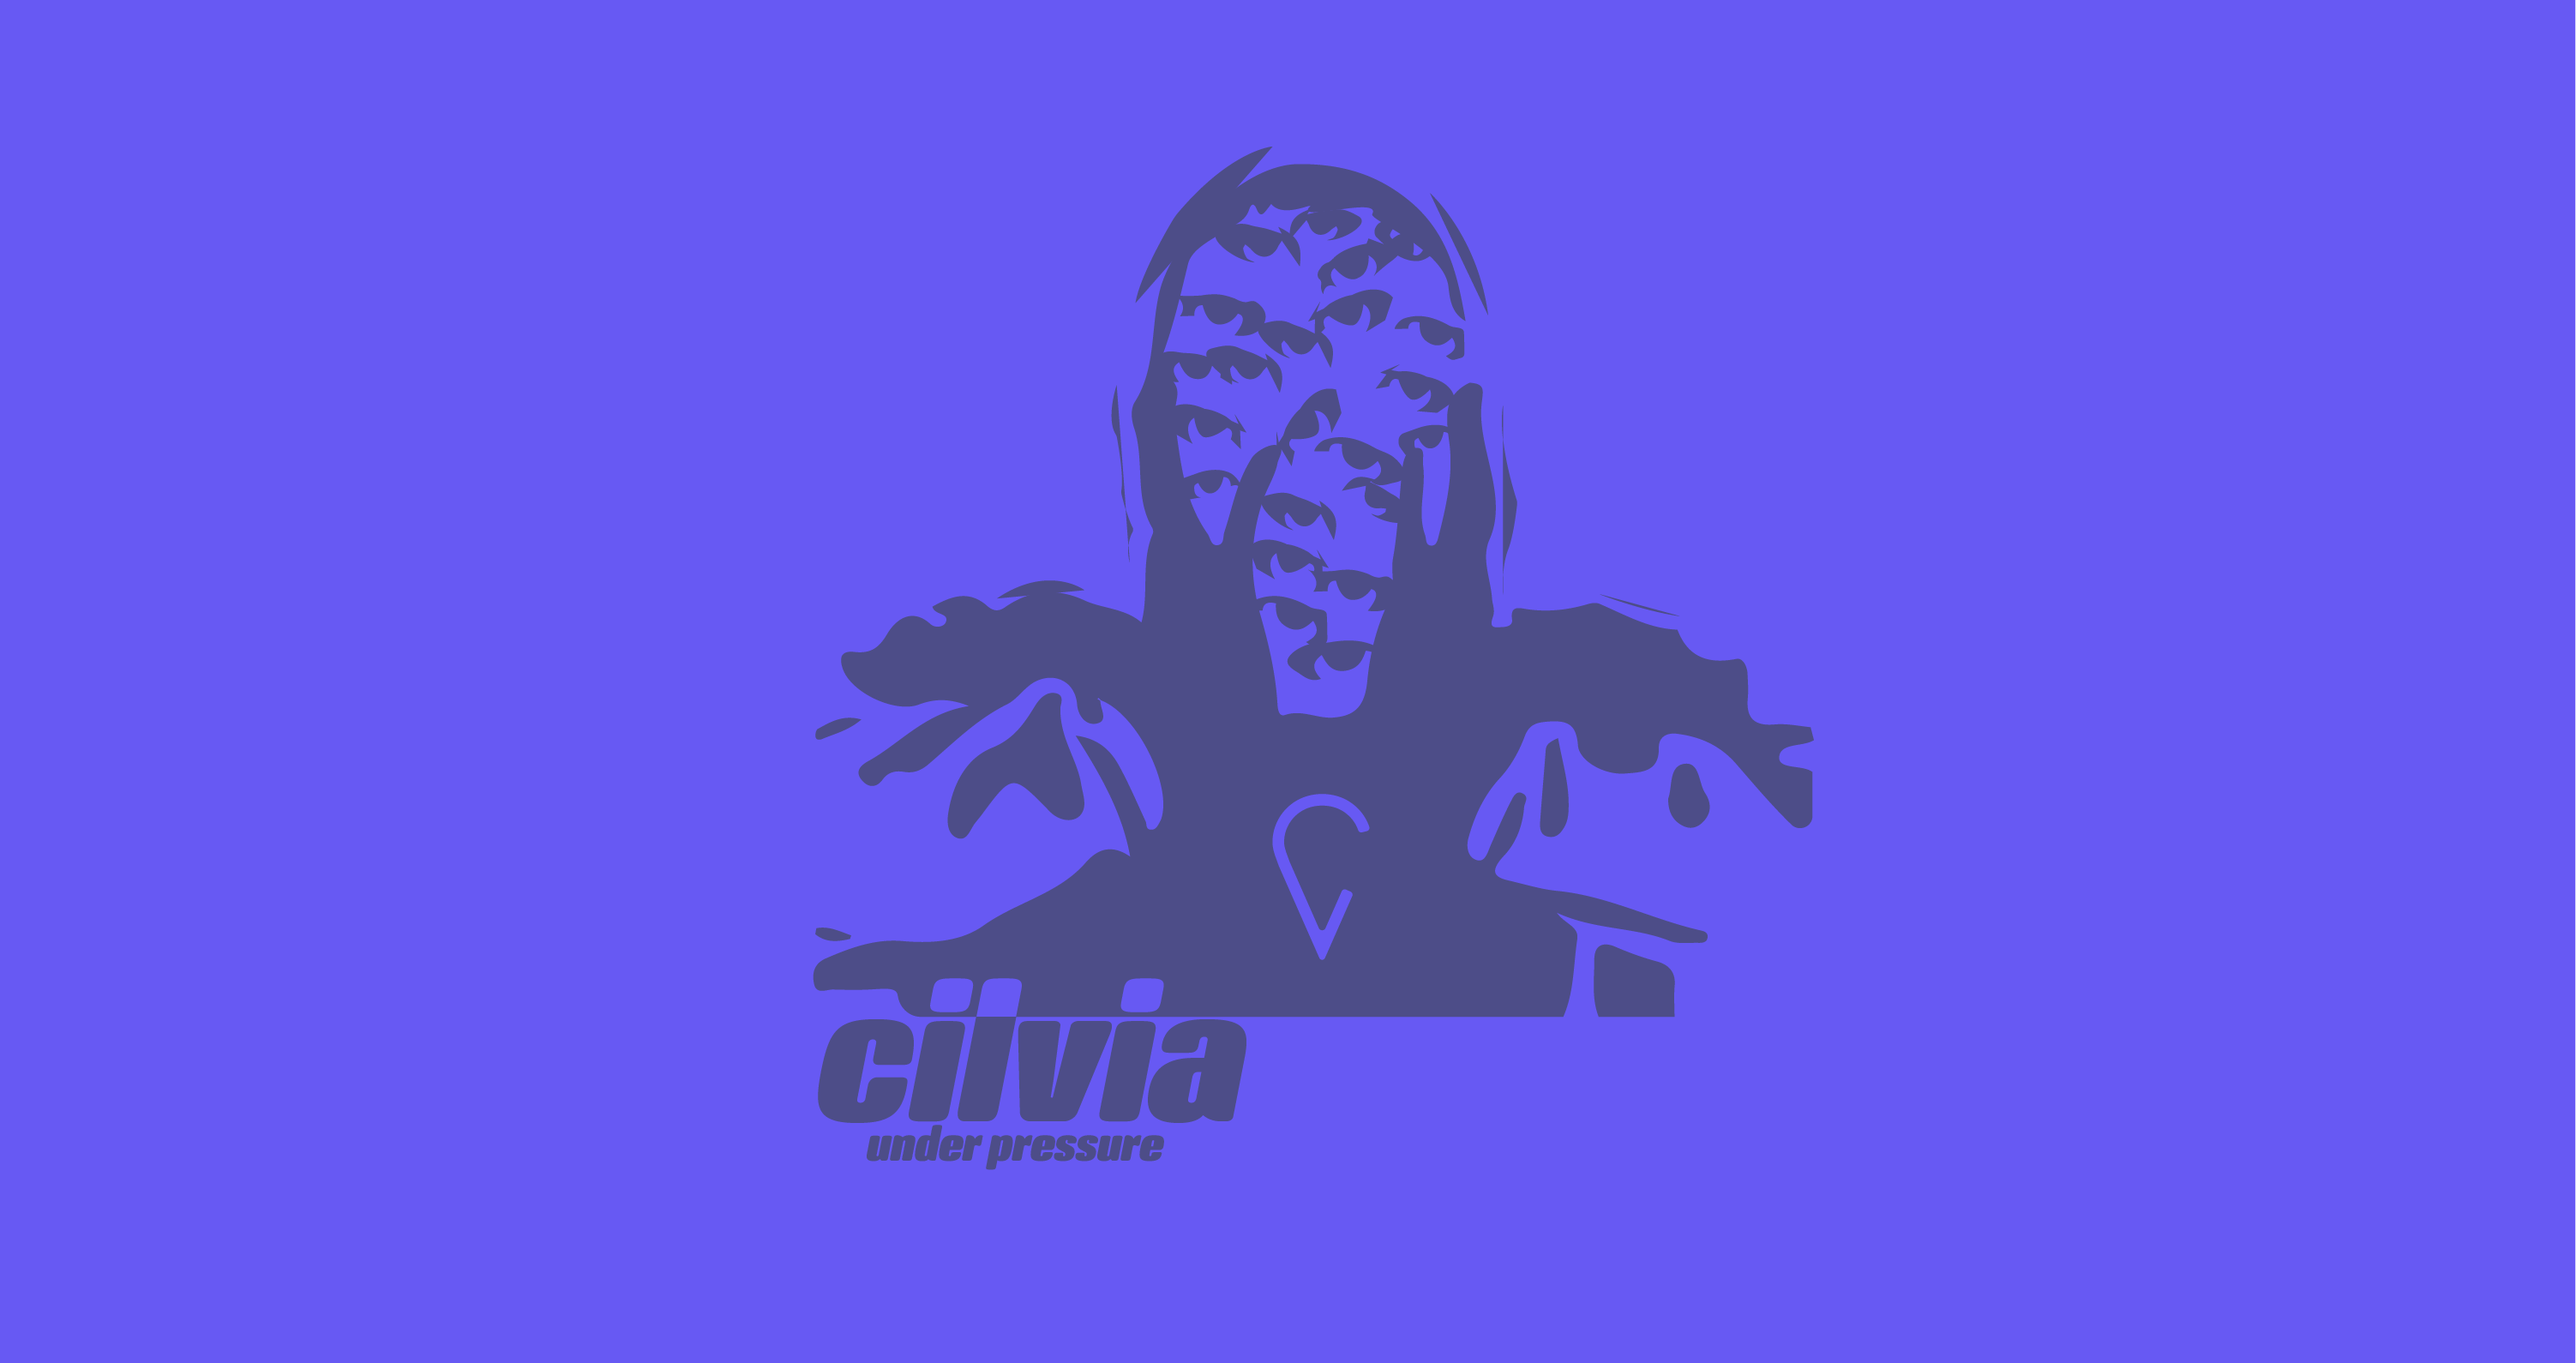
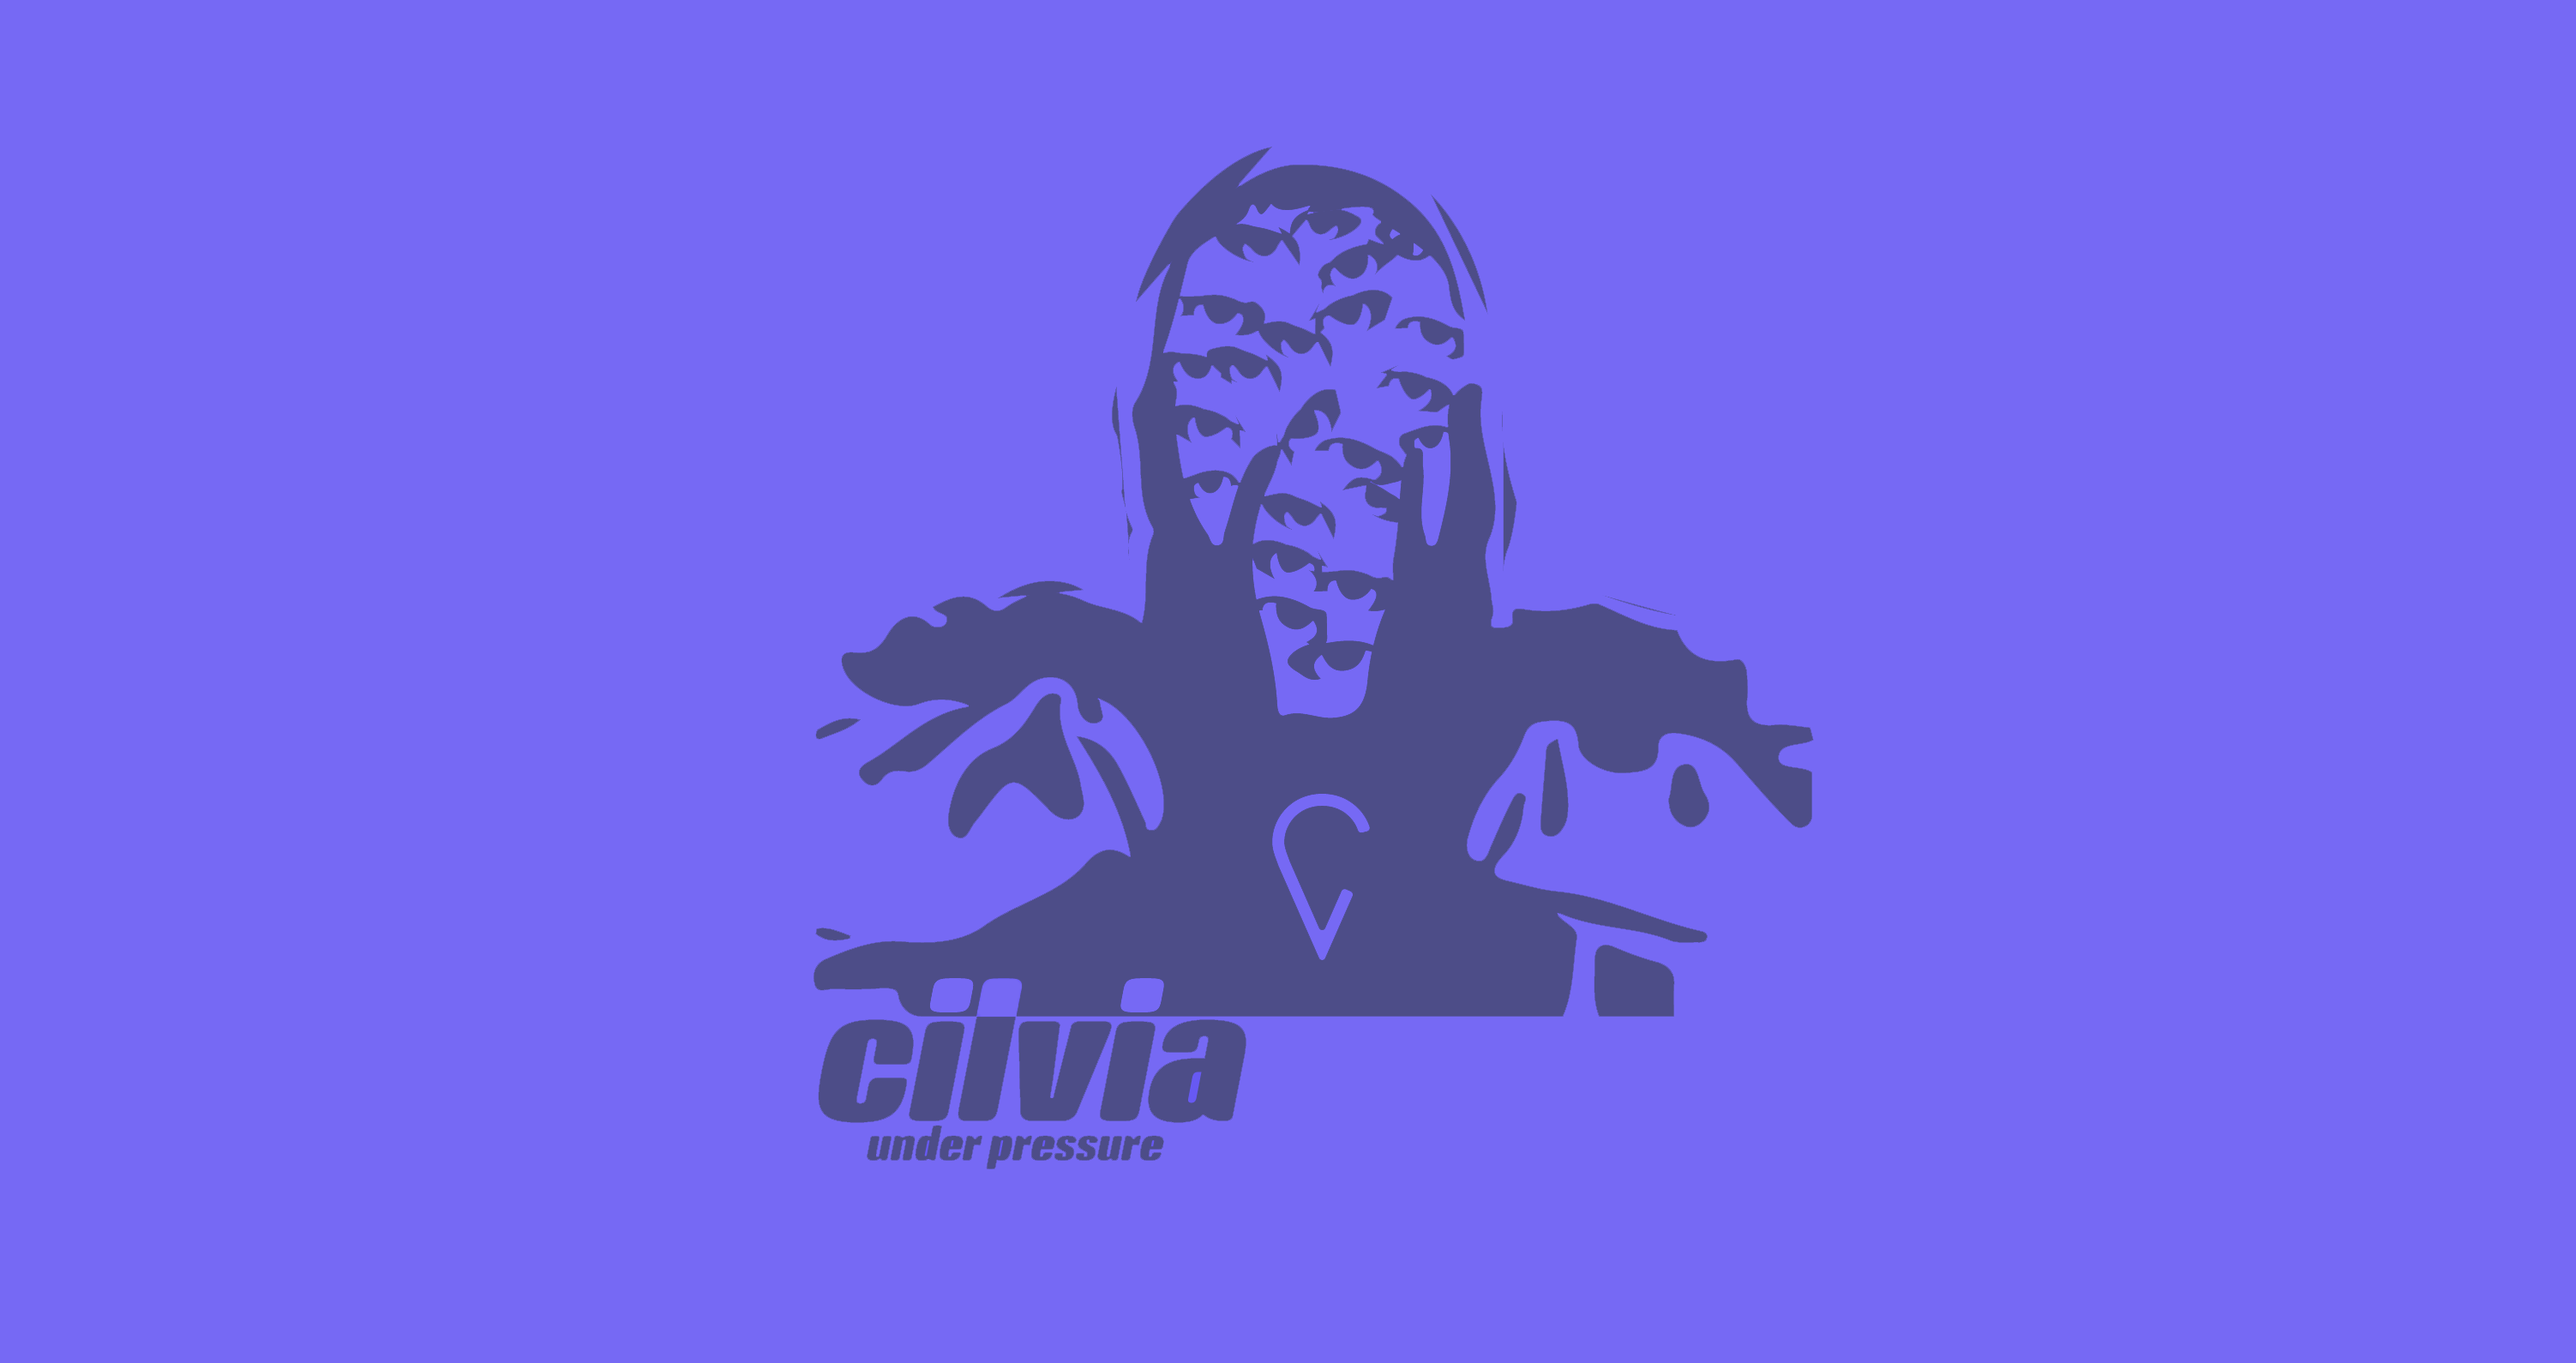
colour change

Changed region(s): [[0.3404, 0.8321, 0.4333, 0.8629], [0.4952, 0.3082, 0.5261, 0.339]]

diff --git a/cilviastudios/index.html b/cilviastudios/index.html
@@ -33,9 +33,9 @@
         <span id="heading-line" data-aos="fade"></span>
         
         <div data-aos="fade"> 
-            <button class="circle-area" id="circle-base"></button>
+            <button class="circle-area" id="circle-base" aria-label="side panel open"></button>
             <div id="sideNavigation" class="sidenav" tabindex="0">
-                <button class="closebtn" id="circle-nav"></button>
+                <button class="closebtn" id="circle-nav" aria-label="side panel close"></button>
                 <nav id="nav-test" tabindex="0">
                     <a id="about" class ="nav-list" href="#">About</a>
                     <a id ="projects" class ="nav-list" href="./projects.html">Projects</a>
@@ -74,23 +74,22 @@
                     <li id="mslist" tabindex="0"><a id="ms" href="./stool.html">A Mechanical Stool</a></li>
                     <li id="tglist" tabindex="0"><a id="tg" href="./c19.html">C19 Temperature Gun</a></li>
                     <li id="cslist" tabindex="0"><a id="cs" href="./cilviasleep.html">Cilvia Sleep</a></li>
-                    <li id="dhlist" tabindex="0"><a id="dh" href="./sdh.html">Syrian Displaced Housing</a></li>
-                    
+                    <li id="dhlist" tabindex="0"><a id="dh" href="./sdh.html">Syrian Displaced Housing</a></li>  
                 </ul>
             </div>
         </div>
 
         <div class="project-photos" data-aos="fade">  
-            <img id="base-photo" src="./images/project-tile/stepcomp_2020-May-31_07-04-10PM-000_CustomizedView27083445406_jpg.jpg" alt="Photo of our temperature gun project for COVID-19.">
+            <img id="base-photo" src="./images/project-tile/stepcomp_2020-May-31_07-04-10PM-000_CustomizedView27083445406_jpg.jpg" alt="Photo of our new Aygo Baby Buggy" aria-label="Aygo">
         </div>
 
         <div class="magazine">
             <div id="opactiycover"></div>
-            <img id="front-cover" src='./images/cilviacover1-01.png' alt="Front cover of Cilvia Studios Volume One magazine.">
+            <img id="front-cover" src='./images/cilviacover1-01.png' title="Front cover of Cilvia Studios Volume One magazine." alt="Front cover of Cilvia Studios Volume One magazine." aria-label="magazine">
         </div>
 
         <div class="graphic-tile">
-            <img id="graphic-cover" src="./images/underpressure.png" alt="Graphic of Man Under Pressure 2019 Graphic Collection.">
+            <img id="graphic-cover" src="./images/underpressure.png" title="Graphic of Man Under Pressure 2019 Graphic Collection."alt="Graphic of Man Under Pressure 2019 Graphic Collection." aria-label="graphics">
         </div>
 
         <div class="graphic-title"  data-aos="fade">
@@ -108,9 +107,9 @@
             </div>
         </div>
 
-        <div id="email-enter">
+        <div id="email-enter" aria-label="email"> 
             <!-- <textarea id="email-here" rows="1" cols="45" placeholder="EMAIL"></textarea> -->
-            <textarea id="email-here" placeholder="EMAIL"></textarea>
+            <textarea id="email-here" placeholder="EMAIL" aria-label="email entry" title="Enter email here."></textarea>
         </div>
         <div id="button-sub">
             <button id = "subscribe-button">SUBSCRIBE</button>
@@ -121,7 +120,7 @@
             <div class="got-any">
                 <p>CHECK US OUT ON BEHANCE HERE</p>
                 <button id="buttonbehance" data-aos="fade-left" data-aos-duration="800">
-                    <a id="behancelink" href="https://www.behance.net/cilviastudios">
+                    <a id="behancelink" href="https://www.behance.net/cilviastudios" aria-label="behance">
                         View projects on Behance</a>
                 </button>
             </div>

diff --git a/emailtest.js b/emailtest.js
@@ -13,6 +13,7 @@
 const describe = window.describe;
 const it = window.it;
 const fc = window.fastcheck;
+
 // I couldn't find a way to wrap the regex even more make it less that 80
 // characters.
 const regexone = /(?!.*\.{2})^([a-z\d!#$%&'*+\-\/=?^_`{|}~\u00A0-\uD7FF\uF900-\uFDCF\uFDF0-\uFFEF]+(\.[a-z\d!#$%&'*+\-\/=?^_`{|}~\u00A0-\uD7FF\uF900-\uFDCF\uFDF0-\uFFEF]+)*|"((([ \t]*\r\n)?[ \t]+)?([\x01-\x08\x0b\x0c\x0e-\x1f\x7f\x21\x23-\x5b\x5d-\x7e\u00A0-\uD7FF\uF900-\uFDCF\uFDF0-\uFFEF]|\\[\x01-\x09\x0b\x0c\x0d-\x7f\u00A0-\uD7FF\uF900-\uFDCF\uFDF0-\uFFEF]))*(([ \t]*\r\n)?[ \t]+)?")@(([a-z\d\u00A0-\uD7FF\uF900-\uFDCF\uFDF0-\uFFEF]|[a-z\d\u00A0-\uD7FF\uF900-\uFDCF\uFDF0-\uFFEF][a-z\d\-._~\u00A0-\uD7FF\uF900-\uFDCF\uFDF0-\uFFEF]*[a-z\d\u00A0-\uD7FF\uF900-\uFDCF\uFDF0-\uFFEF])\.)+([a-z\u00A0-\uD7FF\uF900-\uFDCF\uFDF0-\uFFEF]|[a-z\u00A0-\uD7FF\uF900-\uFDCF\uFDF0-\uFFEF][a-z\d\-._~\u00A0-\uD7FF\uF900-\uFDCF\uFDF0-\uFFEF]*[a-z\u00A0-\uD7FF\uF900-\uFDCF\uFDF0-\uFFEF])\.?$/i;
@@ -76,15 +77,15 @@ const validEmails = [
     "firstname-lastname@example.com",
     "much.'more\ unusual'@example.com",
     "very.unusual.'@'.unusual.com@example.com",
-    "very.'(),:;<>[]'.VERY.'very@\\\\\\ \'very'.unusual@strange.example.com",
+    "very.'(),:;<>[]'.VERY.'very@\\\\\\ \'very'.unusual@strange.example.com"
 ];
-console.log(validEmails.length);
+console.log(`The number of valid inputted emails: ${validEmails.length}`);
 let passedArray = [];
 const emailTest = function(emailarray, validemails, expression) {
     emailarray.forEach(function(subscriber) {
         if (expression.test(String(subscriber).toLowerCase()) === true) {
             passedArray.push(subscriber);
-        };
+        }
     });
     console.log(passedArray);
     if (passedArray === validemails) {
@@ -93,7 +94,7 @@ const emailTest = function(emailarray, validemails, expression) {
     } else {
         console.log(false);
         return false;
-    };
+    }
 };
 emailTest(emailarray, validEmails, regexone);
 emailTest(emailarray, validEmails, regextwo);
@@ -105,17 +106,18 @@ emailTest(emailarray, validEmails, regextwo);
 // package.json should be edited to point to this file to run test.
 
 const fcemailTest = function(emailarray, expression) {
+    console.log(emailarray);
     let theArray = [];
     emailarray.forEach(function(subscriber) {
         if (expression.test(String(subscriber).toLowerCase()) === true) {
             theArray.push(subscriber);
-        };
+        }
     });
     if (theArray.length === 0) {
         return true;
     } else {
         return false;
-    };
+    }
 };
 
 // Properties
@@ -125,6 +127,6 @@ describe("EmailProperties", () => {
         fc.assert(
             fc.property(
                 fc.array(fc.string()),
-                randomemailarray => fcemailTest(randomemailarray, regexone)));
+                (randomemailarray) => fcemailTest(randomemailarray, regexone)));
     });
 });

diff --git a/cilviastudios/default.css b/cilviastudios/default.css
@@ -36,9 +36,9 @@ html, body {
     overflow-y: scroll;
 }
     
-
+/* #6759f3 old blue colour*/
 header {
-    background-color:#6759f3;
+    background-color:#7669F4;
     top: 0px;
     height: 6vw;
     left: 0;
@@ -142,7 +142,7 @@ button {
 #top-message {
     font-family: "TiffanyStdDemi";
     font-size: 4vw;
-    background-color:#6759f3;
+    background-color:#7669F4;
     position: absolute;
     top: 0px;
 }
@@ -232,7 +232,7 @@ button {
     width: 50%;
     right: 0;
     height: 27vw;
-    background-color:#6759f3;
+    background-color:#7669F4;
     max-width: 50%;
     left: 50%;
 }
@@ -258,7 +258,7 @@ button {
 }
 .graphic-title {
     position: absolute;
-    top: 68vw;
+    top: 68.5vw;
     left: 50%;
     margin-left: 3.2vw;
 
@@ -283,7 +283,7 @@ button {
 
 .magazine {
     position: absolute;
-    background-color:#6759f3;
+    background-color:#7669F4;
     width: 50%;
     left: 0;
     top: 68vw;
@@ -626,7 +626,7 @@ button {
     z-index: 1; /* Stay on top */
     top: 0;
     left: 0;
-    background-color:#6759f3; /* Black*/
+    background-color:#7669F4; /* Black*/
     overflow-x: hidden; /* Disable horizontal scroll */
     overflow-y: hidden;
     transition: 2s;
@@ -705,7 +705,7 @@ button {
                                 display: none
                             }
                             #subscribe-button, #email-here {
-                                margin-top: 140 vw;    
+                                margin-top: 140vw;    
                             }
                         }
                     }
